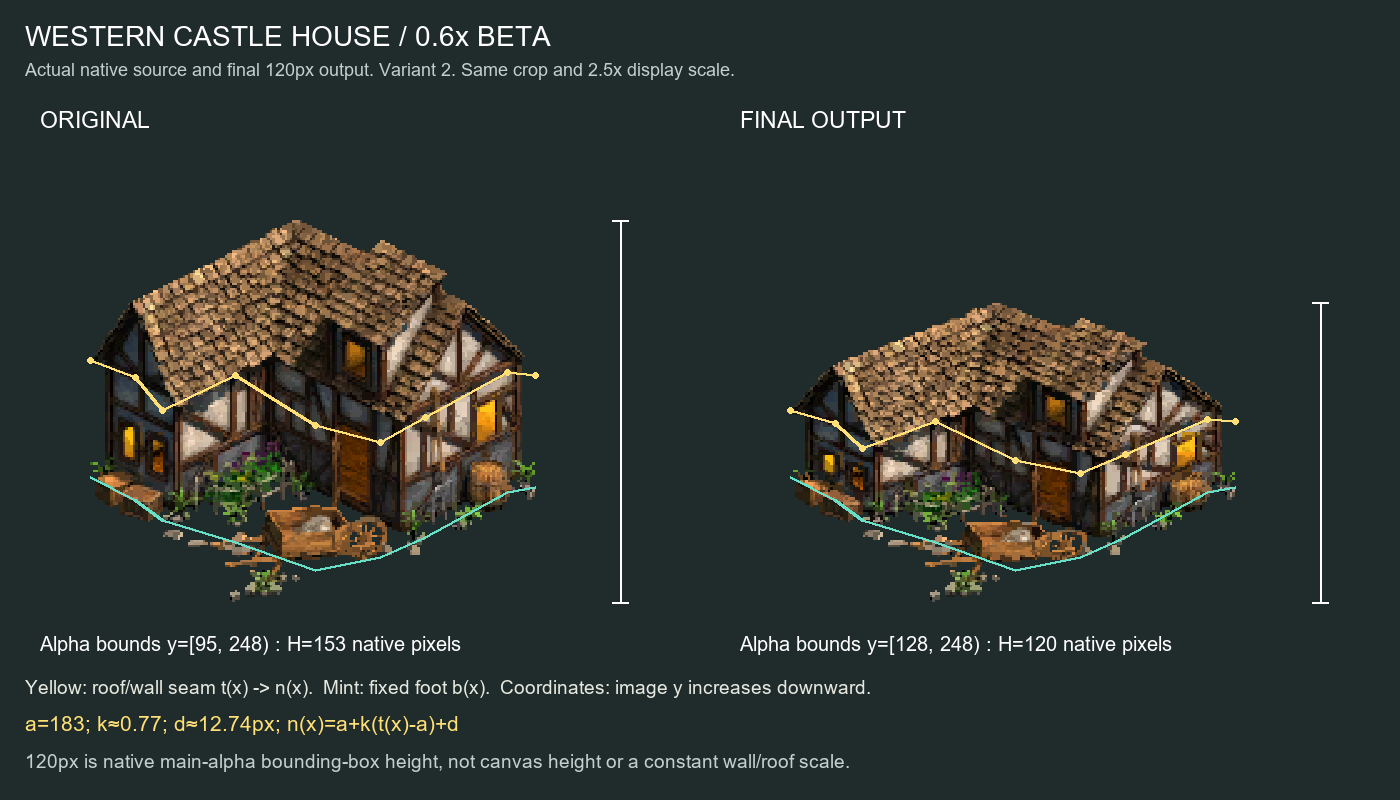
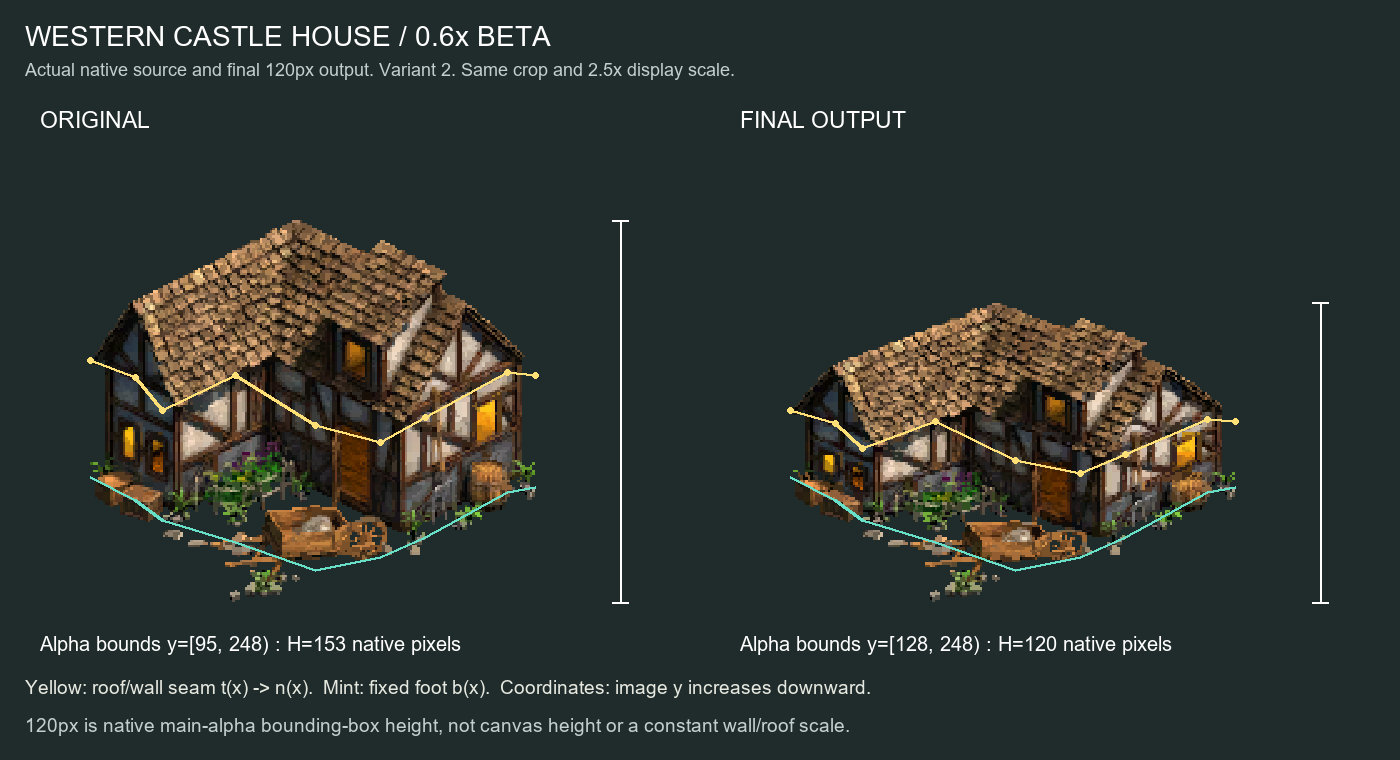
docs: distinguish CalVer from height label and simplify figure

Changed region(s): [[0.0, 0.2724, 0.8907, 0.9684], [0.0, 0.0303, 0.5221, 0.1816], [0.5221, 0.1211, 0.645, 0.1816]]

diff --git a/mods/low-profile-houses/docs/TECHNICAL-SPEC.md b/mods/low-profile-houses/docs/TECHNICAL-SPEC.md
@@ -2,7 +2,7 @@
 
 ## Current release boundary
 
-The current standard is **0.6x Beta**, with a **120 px upper bound**, starting from original graphics and leaving shorter houses unchanged. The name estimates above-ground height; it is not a uniform image-space scale. The equations below explain the method, while the numerical profile table and checked-in source files below are **historical v0.2 / 110 px examples**, not the current release configuration. The general seam/roof/wall equations also appear in the inspected 120 px builder; some Western assets dispatch to specialized protection rules.
+The current height treatment is named **0.6x** (CalVer release family `2611.1-beta`), with a **120 px upper bound**, starting from original graphics and leaving shorter houses unchanged. The name estimates above-ground height; it is not a uniform image-space scale. The equations below explain the method, while the numerical profile table and checked-in source files below are **historical v0.2 / 110 px examples**, not the current release configuration. The general seam/roof/wall equations also appear in the inspected 120 px builder; some Western assets dispatch to specialized protection rules.
 
 The [current package manifest](../manifests/0.6x-120px-verification.md) is now checked in and its 108 hashes match the subscribed release. Full current configuration and source import remain incomplete; do not infer byte reproducibility from this historical implementation.
 

diff --git a/README.md b/README.md
@@ -5,7 +5,7 @@ Age of Empires II: Definitive Edition mods by **hiiwave**.
 ## [Low-Profile Houses](mods/low-profile-houses/)
 
 Shorter houses reveal more of nearby units, terrain and wall gaps while retaining the game's architectural character.
-The current **0.6x Beta** uses a **120 px upper bound**. Graphics only: ground footprints, collision and gameplay data remain unchanged.
+The **0.6x** height treatment uses a **120 px upper bound**. Graphics only: ground footprints, collision and gameplay data remain unchanged.
 
 ![Before and after: Low-Profile Houses 0.6x Beta](mods/low-profile-houses/docs/images/current-06x/live-25m-before-after.jpg)
 

diff --git a/mods/low-profile-houses/README.md b/mods/low-profile-houses/README.md
@@ -12,6 +12,8 @@ Tall houses can hide units, terrain and small gaps in a wall. Low-Profile Houses
 
 ## Current standard
 
+Release family: **`2611.1-beta`** (CalVer). **0.6x names the height treatment, not a version number.**
+
 - **120 px upper bound**, measured in the native standing-house main image. Houses at or below the target are not enlarged.
 - One selected variant per architecture and age, repeated across the normal variation slots for a consistent look.
 - **0.6x is an approximate above-ground height description**, not a universal 0.6 multiplier on image coordinates or an exact recovered 3D measurement.

diff --git a/mods/low-profile-houses/docs/DECISIONS.md b/mods/low-profile-houses/docs/DECISIONS.md
@@ -2,7 +2,7 @@
 
 ## Current decisions
 
-- 0.6x Beta / 120 px upper bound is the standard; shorter originals are not enlarged.
+- 0.6x names the standard height treatment with a 120 px upper bound; shorter originals are not enlarged. Release identifiers use CalVer (`2611.1-beta`), not the height label.
 - Start from original assets. Keep approximate above-ground height naming distinct from image-space pixel targets.
 - Retain the owner's variant choices and the graphics-only boundary.
 - Keep old screenshots, parameters and test records explicitly historical. Lead with current real-game before/after evidence.

diff --git a/mods/low-profile-houses/docs/TEST-STATUS.md b/mods/low-profile-houses/docs/TEST-STATUS.md
@@ -1,6 +1,8 @@
-# Versions and evidence
+# Release and build evidence
 
-## Current: 0.6x Beta / 120 px upper bound
+## Current release family: 2611.1-beta
+
+**0.6x** is the height label (120 px upper bound), not the release version. The publication-description formatting revision uses `2611.1-beta.5`; that suffix is not evidence of a geometry change.
 
 The owner-selected [25-minute before/after](GAMEPLAY-GALLERY.md) is current in-game visual evidence. It shows original versus shortened houses, not exhaustive validation of all assets or lifecycle states.
 

diff --git a/mods/low-profile-houses/docs/PRD.md b/mods/low-profile-houses/docs/PRD.md
@@ -1,4 +1,4 @@
-# Product requirements: 0.6x Beta
+# Product requirements: Low-Profile Houses (0.6x)
 
 Author: **hiiwave**. Current standard: **120 px upper bound**.
 
